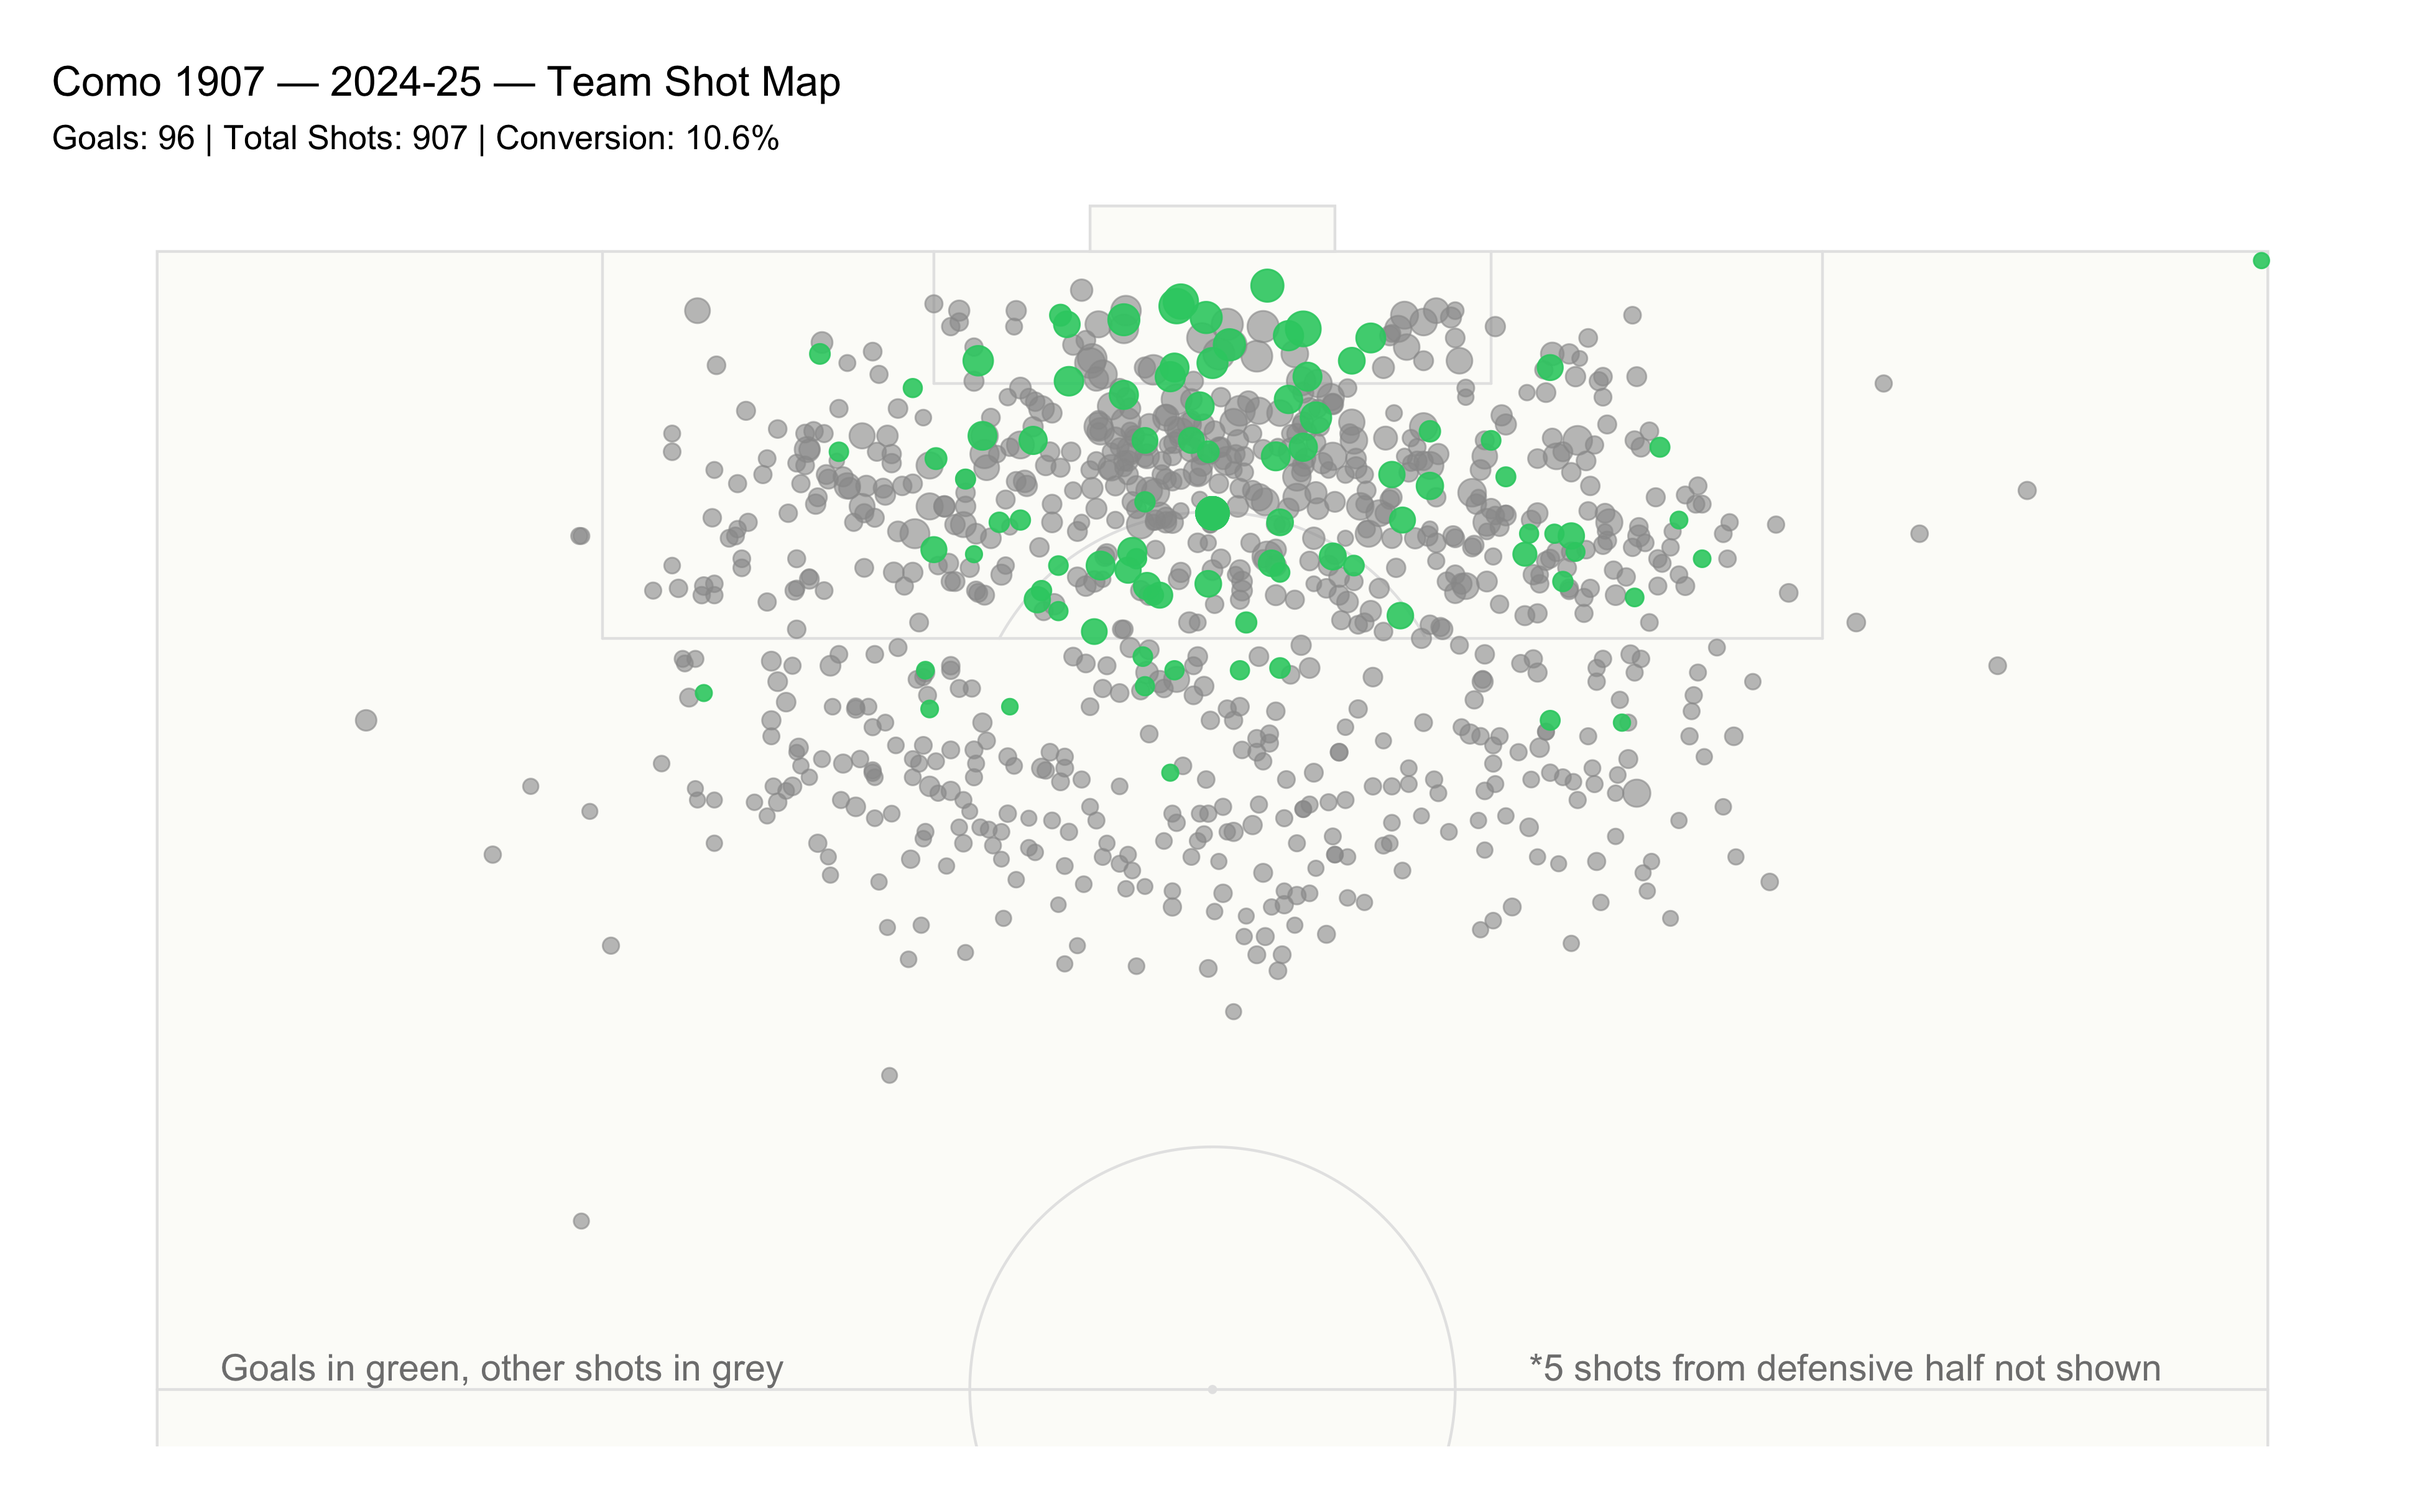
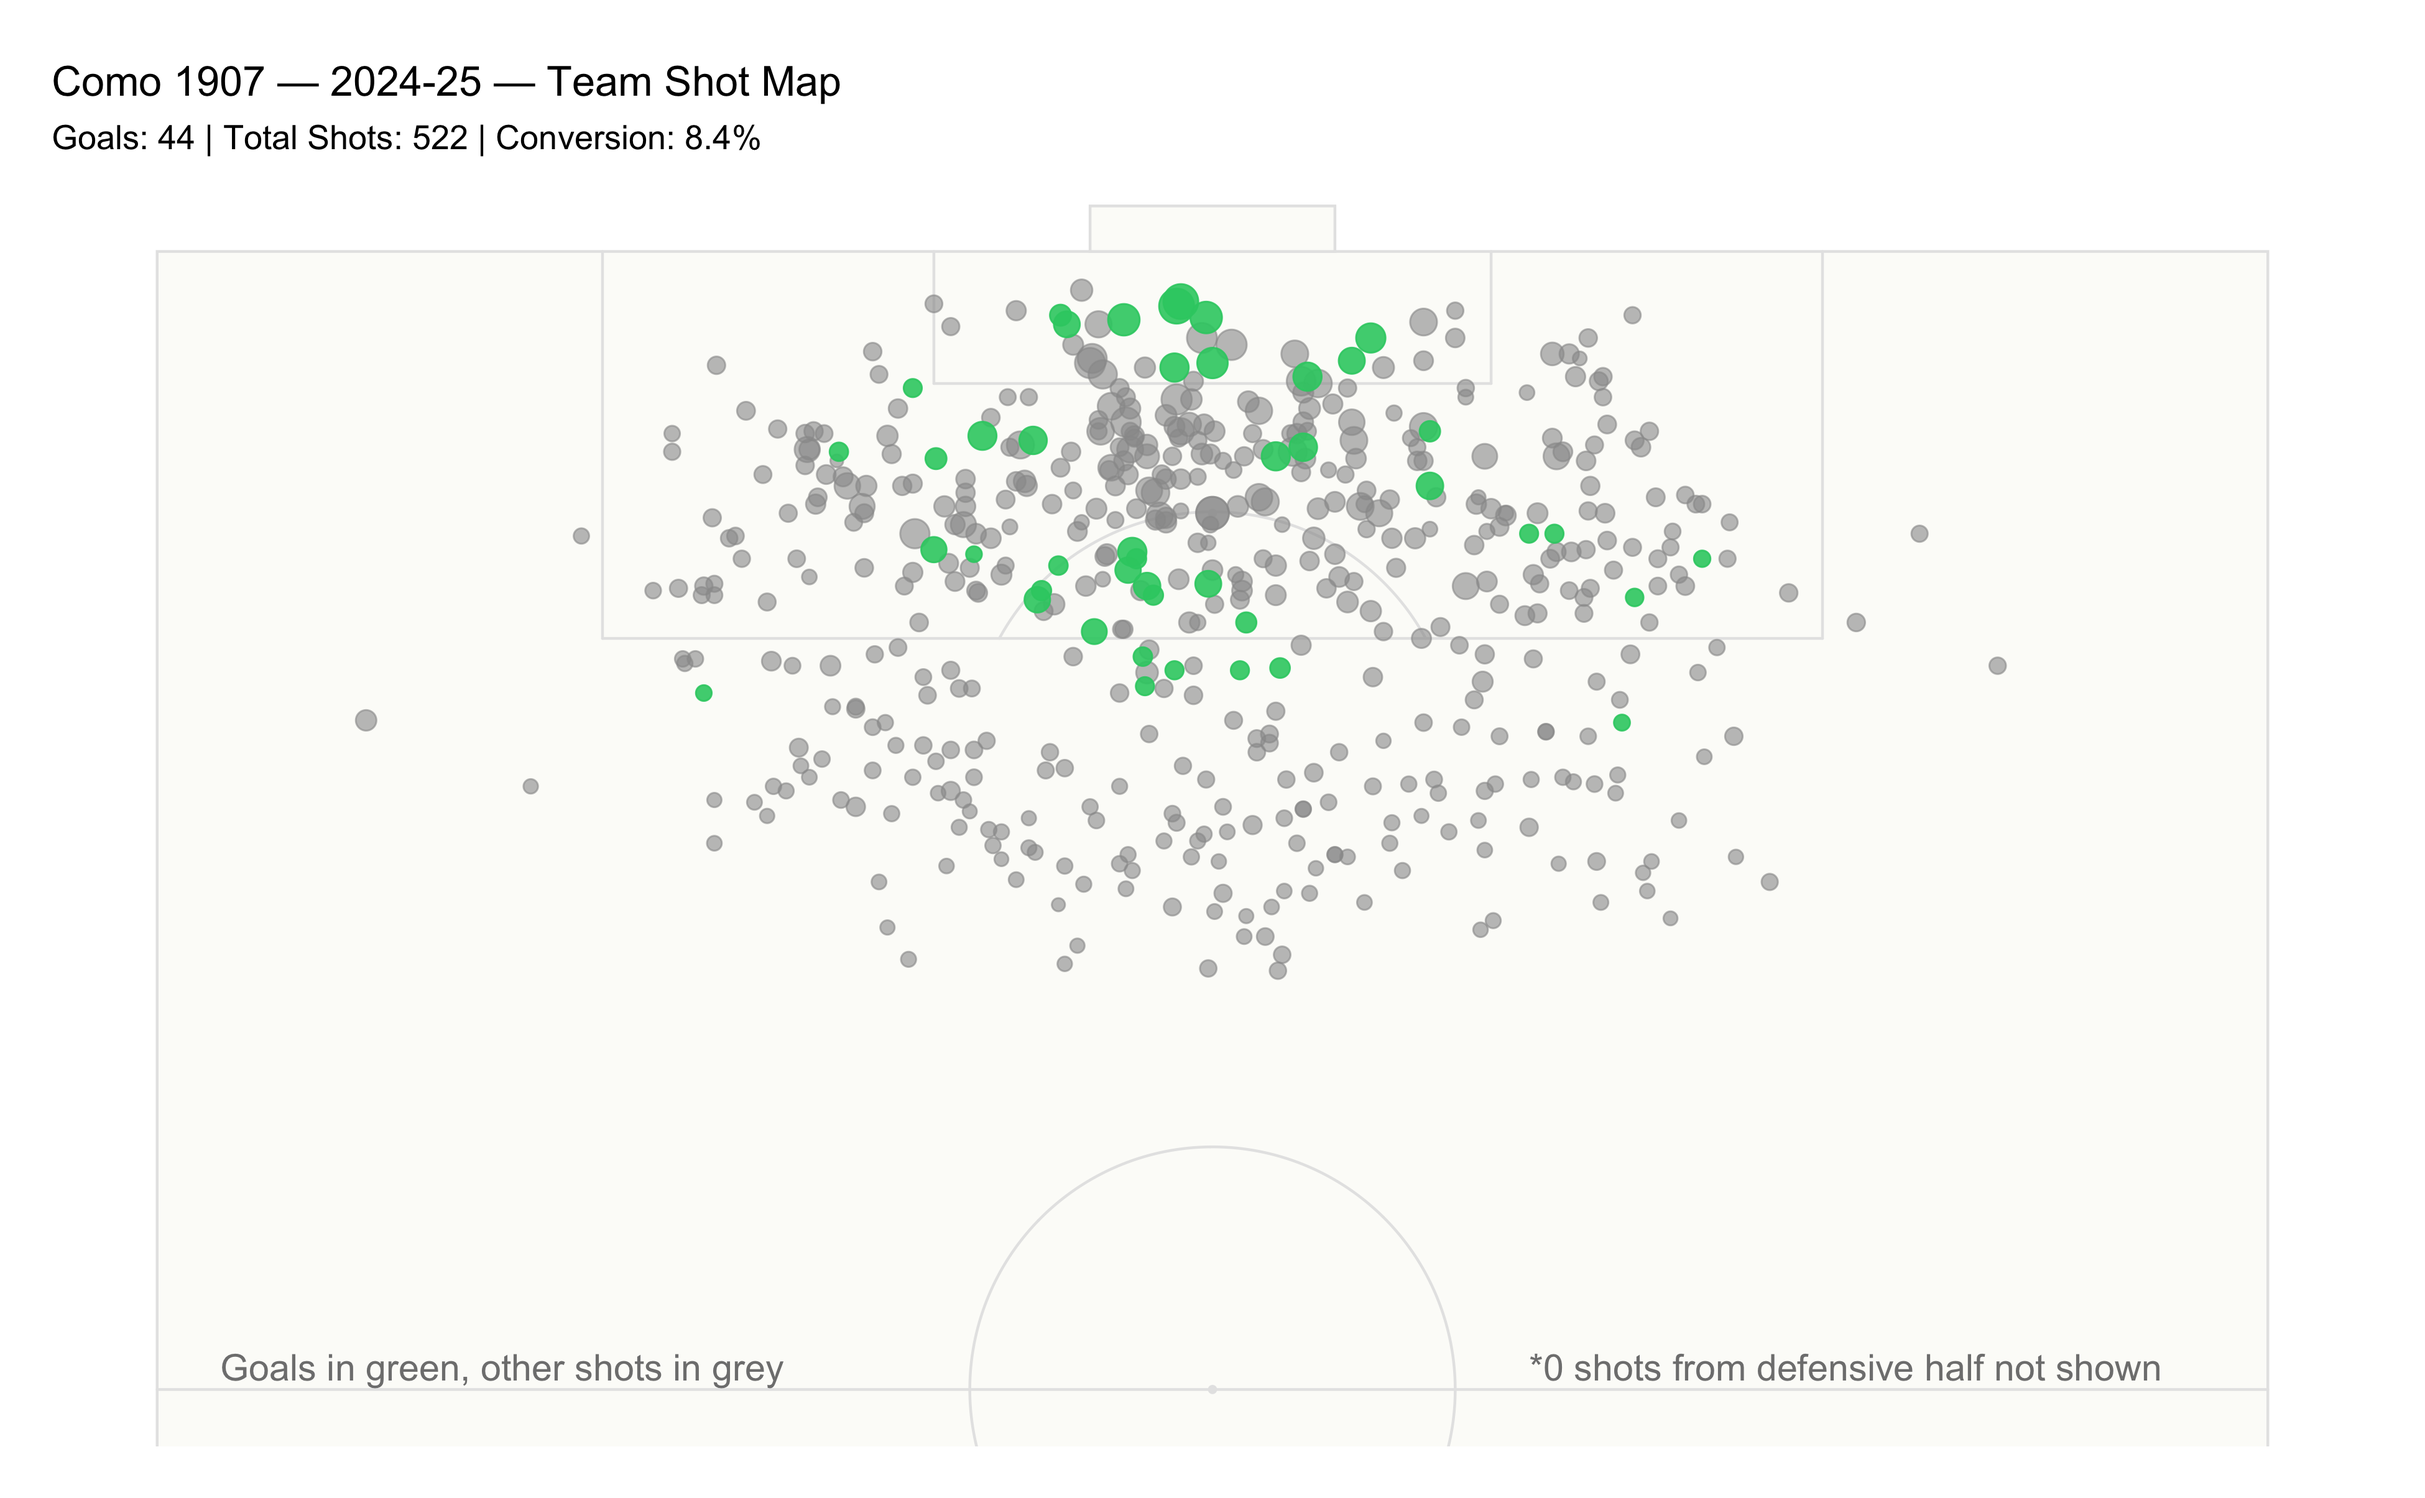
update files

diff --git a/projects/como-1907-2024-shot-map.md b/projects/como-1907-2024-shot-map.md
@@ -21,8 +21,23 @@ library(here)            # simplify file paths by anchoring them to your project
 ### 1. Import Como 1907 team shots data
 
 ``` r
-# Load Como 1907 team shots data (data from understat)
+# Load como 1907 team shots data (data from understat) 
 como.2024.team.shot <- readRDS(here("data", "raw", "ustat-como-2024-team-shot.rds"))
+
+# Load como players data
+como.2024.players.stats <- readRDS(here("data", "raw", "ustat-como-2024-tp-stats-url.rds"))
+
+# filter to only como players -- data includes data from other teams that como has played against
+como.2024.team.shot <- como.2024.team.shot %>%
+  mutate(player_id = as.numeric(player_id)) %>% 
+  semi_join(
+    como.2024.players.stats %>% 
+    select(player_id), by = c("player_id" = "player_id"))
+
+# alternatively
+# como.2024.team.shot <- como.2024.team.shot %>%
+#   mutate(player_id = as.numeric(player_id)) %>% 
+#   filter(player_id %in% como.2024.players$player_id)
 ```
 
 ### 2. Create plot visualizing team shots data
@@ -35,6 +50,7 @@ como.2024.shots.not.shown <- como.2024.team.shot %>%
 
 # Calculate descriptive statistics
 como.2024.shot.stats <- como.2024.team.shot %>%
+  filter(!is.na(result)) %>% 
   summarise(
     total.shots = n(),
     goals = sum(result == "Goal"),
@@ -47,7 +63,6 @@ como.2024.shot.stats.subtitle <- paste0(
   "Total Shots: ", como.2024.shot.stats$total.shots, " | ",
   "Conversion: ", como.2024.shot.stats$conversion.rate, "%"
 )
-
 
 # Create the half-pitch shot map (minimal)
 ggplot(como.2024.team.shot) +
